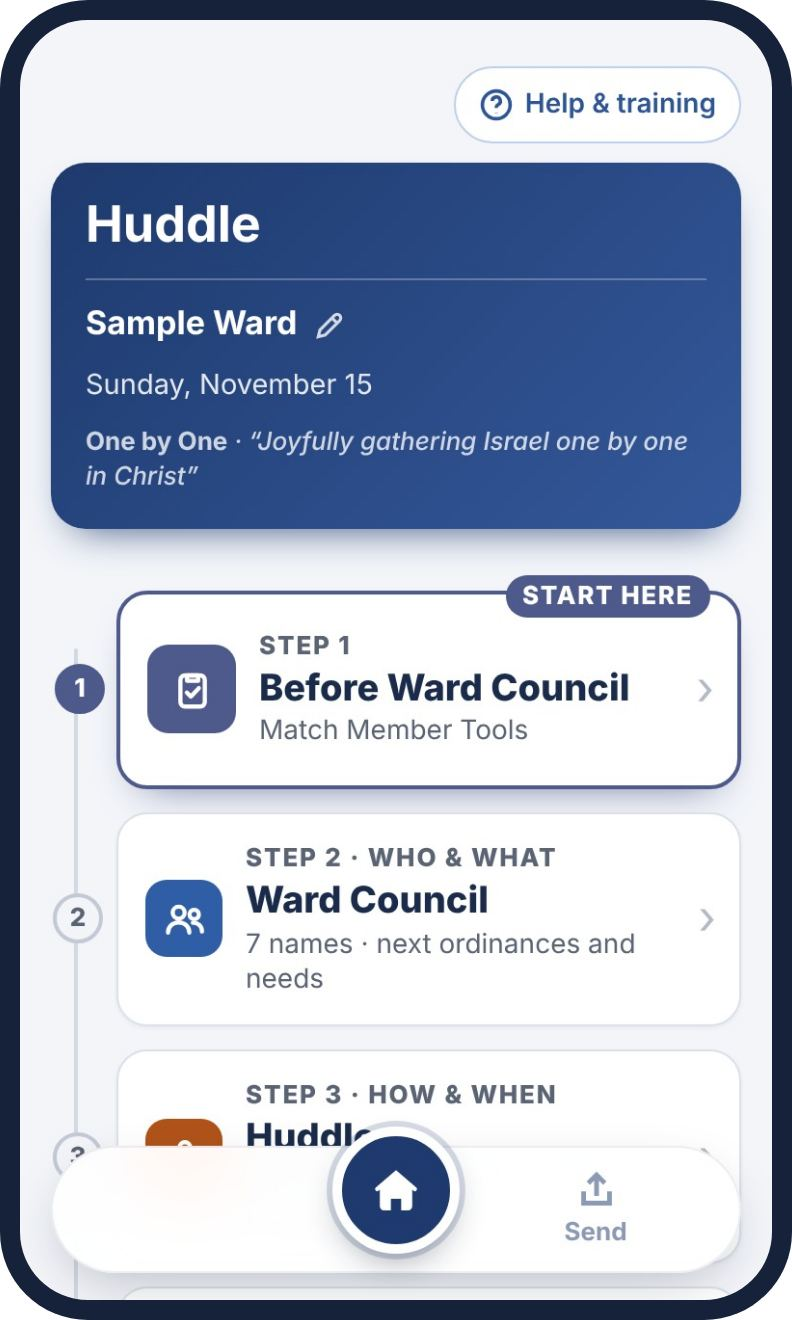
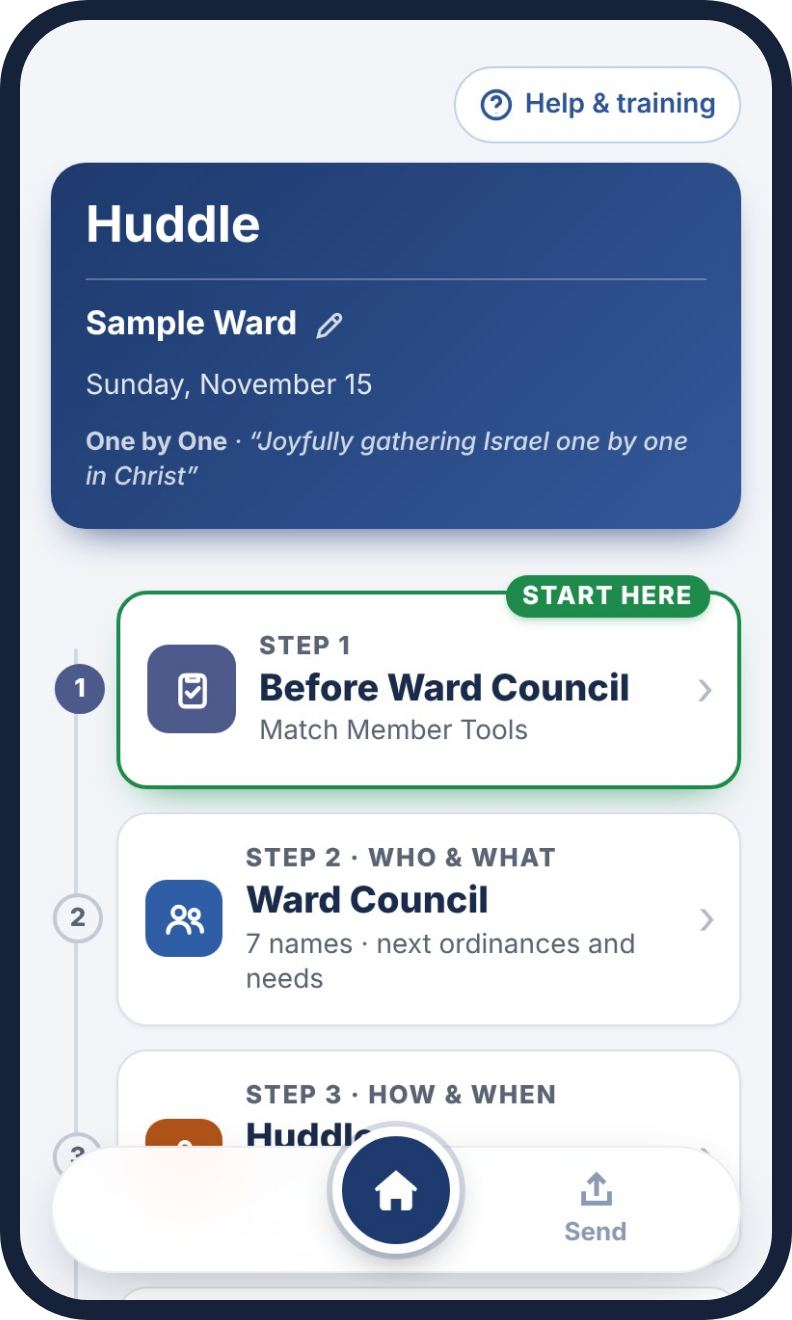
No next steps on focus names; assignment ideas stay to add more than one; Up next and Start here in green (wip, tests running)
Claude-Session: https://claude.ai/code/session_01PW98YcMvh8WynmxGN9Y5LD

Changed region(s): [[0.1515, 0.4348, 0.9394, 0.5902], [0.1515, 0.5902, 0.9091, 0.6212], [0.1212, 0.4659, 0.1515, 0.5902]]

diff --git a/app.js b/app.js
@@ -857,13 +857,14 @@
   function actionChips(base) {
     var a = getPath(base.replace(/\.$/, '')); if (!a || !str(a.name).trim()) return null;
     var m = /^cp\.(\w+)\./.exec(base), src = m ? { a: a, gid: m[1] } : cpOfName(a.name);
-    var open = src ? openChecks(src.a, src.gid).map(function (c) { return c.help; }) : [];
+    var open = []; // no "Next steps on their Covenant Path Report" here (Nov 20, 2026): only ideas for the next ordinance
     var ord = src && FIXED_ORD[src.gid] ? FIXED_ORD[src.gid] : str(a.ordinance).trim(), oi = ORD_IDEAS[ord];
     var done = src ? (CHECKLISTS[src.gid] || []).filter(function (c) { return checkOf(src.a, src.gid, c) !== false; }).map(function (c) { return c.help; }) : [];
     var ideas = oi ? oi.items.filter(function (t) { return open.indexOf(t) < 0 && done.indexOf(t) < 0; }) : []; // nothing they've already done
     if (!open.length && !ideas.length) return null;
-    var chipsFor = function (list) { return h('div', { class: 'idea-chips' }, list.map(function (t) { return h('button', { type: 'button', class: 'idea-chip', 'data-action': 'help-chip', 'data-a': base + 'action', 'data-b': t, text: t }); })); };
-    return h('div', { class: 'full help-chips action-chips', hidden: !!str(a.action).trim() }, [
+    var have = str(a.action).split('\n').map(function (x) { return x.trim(); });
+    var chipsFor = function (list) { return h('div', { class: 'idea-chips' }, list.map(function (t) { var on = have.indexOf(t) >= 0; return h('button', { type: 'button', class: 'idea-chip' + (on ? ' is-on' : ''), 'aria-pressed': on ? 'true' : 'false', 'data-action': 'help-chip', 'data-a': base + 'action', 'data-b': t, text: t }); })); };
+    return h('div', { class: 'full help-chips action-chips' }, [ // they stay after one is tapped, to add another (Nov 20, 2026)
       open.length ? h('p', { class: 'idea-k', text: 'Next steps on their Covenant Path Report' }) : null, open.length ? chipsFor(open) : null,
       ideas.length ? h('p', { class: 'idea-k', text: oi.label }) : null, ideas.length ? chipsFor(ideas) : null]);
   }
@@ -1015,7 +1016,7 @@
       isTn ? ordSuggest(base) : null // no confidential note here: nothing is typed (the user decided, Nov 19, 2026)
     ].filter(Boolean));
     return h('div', { class: 'card wc-card person-wc g-' + g }, [
-      focusBox(g, r.i, a), h('div', { class: 'card-zone wc-plain-zone' }, [wc, nextStepsBox(r, a)]),
+      focusBox(g, r.i, a), h('div', { class: 'card-zone wc-plain-zone' }, [wc, isTn ? null : nextStepsBox(r, a)]), // a focus name: no next steps list (Nov 20, 2026)
       g === 'bt' ? h('button', { type: 'button', class: 'btn-convert', 'data-action': 'convert-nm', 'data-a': r.i }, ['Move to New members']) : null
     ]);
   }
@@ -3162,8 +3163,13 @@
         break;
       }
       case 'help-chip': case 'ord-suggest': { // a tapped suggestion fills the Action item (or What will help); a suggested ordinance fills Next ordinance
-        setPath(a, b); saveDraft(); renderPerson(); renderTN(); renderCP();
-        if (/\.action$/.test(a)) { var tb = a.replace(/action$/, ''); refreshTextButton(tb); setTimeout(function () { var af = document.querySelector('#person-card [data-bind="' + tb + 'assigned"]'); if (af) af.focus(); }, 60); }
+        if (/\.action$/.test(a)) { // the Assignment can hold more than one: each tapped idea is a line of its own; tapping it again takes it out
+          var lines = str(getPath(a)).split('\n').filter(function (x) { return x.trim(); }), at = lines.map(function (x) { return x.trim(); }).indexOf(b);
+          if (at >= 0) lines.splice(at, 1); else lines.push(b);
+          setPath(a, lines.join('\n'));
+        } else setPath(a, b);
+        saveDraft(); renderPerson(); renderTN(); renderCP();
+        if (/\.action$/.test(a)) refreshTextButton(a.replace(/action$/, '')); // the ideas stay in view to add another (no jump to Assigned to)
         break;
       }
       case 'open-asg': case 'add-asg': { // from an opportunity's card in the Huddle: open it with that one assignment open

diff --git a/test/checklist.js b/test/checklist.js
@@ -69,18 +69,23 @@ const ok = (c, m) => { if (c) { passed++; console.log('PASS ' + m); } else { fai
   await p.selectOption('#person-card [data-bind="tn.1.ordinance"]', 'Endowment'); await w(400);
   await p.click('#person-view .person-done'); await w(300);
 
-  // The Huddle: no sacrament box; the action item offers what's still open on her report, then ideas for her next ordinance
+  // The Huddle: no sacrament box; the Assignment offers ideas for her next ordinance, and can hold more than one
   await p.click('.nav-home'); await w(400); await p.click('.door-hd'); await w(400);
   await p.click('[data-action="open-step"][data-a="tn"]'); await w(400);
   await p.click('#tn-list [data-action="open-person"][data-b="0"]'); await w(400);
   ok(!(await p.$('#person-card .sac-toggle')), 'a focus name in the Huddle has no Attended sacrament box');
   const ach = await p.$$eval('#person-card .action-chips .idea-chip', e => e.map(x => x.textContent));
   const atext = await p.textContent('#person-card .action-chips');
-  ok(/Next steps on their Covenant Path Report/.test(atext) && /Ideas for priesthood advancement/.test(atext) && ach.includes('Melchizedek Priesthood ordination') && !ach.includes('A calling') && !ach.includes('Friends at church') && !ach.includes('Aaronic Priesthood ordination'),
-    'under Assignment: only her next steps on her report, then ideas for her next ordinance: ' + ach.join(' | '));
-  await p.click('#person-card .action-chips .idea-chip >> text=Melchizedek Priesthood ordination'); await w(400);
+  ok(!/Next steps on their Covenant Path Report/.test(atext) && /Ideas for priesthood advancement/.test(atext) && ach.length >= 2 && !ach.includes('A calling') && !ach.includes('Friends at church'),
+    'under Assignment: ideas for her next ordinance only (no next steps list), leaving out what she has done: ' + ach.join(' | '));
+  const first = ach[0], second = ach[1];
+  await p.click(`#person-card .action-chips .idea-chip >> text="${first}"`); await w(400);
   st = await saved();
-  ok(st.tn[0].action === 'Melchizedek Priesthood ordination' && !(await p.isVisible('#person-card .action-chips')) && await p.evaluate(() => /assigned$/.test(document.activeElement.dataset.bind || '')), 'tapping one fills the Action item, the chips hide, and the cursor moves to Assigned to');
+  ok(st.tn[0].action === first && await p.isVisible('#person-card .action-chips') && await p.locator('#person-card .action-chips .idea-chip.is-on').count() === 1, 'tapping one fills the Assignment, and the ideas stay with that one checked');
+  await p.click(`#person-card .action-chips .idea-chip >> text="${second}"`); await w(400);
+  ok((await saved()).tn[0].action === first + '\n' + second && await p.locator('#person-card .action-chips .idea-chip.is-on').count() === 2, 'tapping another adds it on a line of its own: ' + second);
+  await p.click(`#person-card .action-chips .idea-chip >> text="${second}"`); await w(400);
+  ok((await saved()).tn[0].action === first, 'tapping it again takes it back out');
   await p.fill('#person-card [data-bind="tn.0.action"]', 'Meet with the elders quorum president'); await p.evaluate(() => document.activeElement.blur()); await w(200);
   await p.click('#person-view .person-done'); await w(300);
   await p.click('#tn-list [data-action="open-person"][data-b="1"]'); await w(400);

diff --git a/test/wccards.js b/test/wccards.js
@@ -62,12 +62,7 @@ const ok = (c, m) => { if (c) { passed++; console.log('PASS ' + m); } else { fai
   ok(!(await p.isVisible('.swipe-hint')), 'Got it puts the hint away');
   await p.click('#wc-step-tn .person-row:has-text("Marcus Bell")'); await w(500);
   ok(await view() === 'p-wc' && !(await p.$('#person-card .need-note')) && !(await p.$('#person-card .zone-label')) && !(await p.$('#person-card .wc-summary, #person-card .zone-hd-wrap, #person-card .hd-summary')), 'a focus name’s Ward Council screen has no zone label, no Huddle box and no confidential note');
-  ok(/next steps? on their Covenant Path Report/.test(await p.textContent('#person-card .ns-head')) && await p.locator('#person-card .ns-list').count() === 0, 'their next steps on the Covenant Path Report sit in a closed list');
-  await p.click('#person-card [data-action="ns-toggle"]'); await w(200);
-  const before = (await p.textContent('#person-card .ns-head')).match(/\d+/)[0];
-  await p.click('#person-card .ns-list [data-action="check-item"][data-b="calling"]'); await w(250);
-  const st1 = await p.evaluate(() => JSON.parse(localStorage.getItem('huddle-agenda-v1')));
-  ok(+((await p.textContent('#person-card .ns-head')).match(/\d+/)[0]) === before - 1 && st1.cp.rm[0].checks && st1.cp.rm[0].checks.calling === true && await p.isVisible('#person-card .ns-list [data-b="calling"]'), 'checking one off marks it done on their Covenant Path Report, and it stays in view');
+  ok(await p.locator('#person-card .ns-box, #person-card .ns-none').count() === 0, 'a focus name’s screen has no next steps list (just the next ordinance)');
   const opts = await p.$$eval('#person-card [data-bind$=".ordinance"] option', o => o.map(x => x.value).filter(Boolean));
   await p.selectOption('#person-card [data-bind$=".ordinance"]', opts[0]); await w(200);
   await p.click('#person-card .person-done'); await w(500);

diff --git a/styles.css b/styles.css
@@ -1798,3 +1798,10 @@ li.flag-focus .row-flag { color: #8A5A00; }
 .cal-day.is-today { box-shadow: inset 0 0 0 1.5px var(--accent-line); }
 .cal-day.is-sel { background: var(--accent); color: #FFFFFF; font-weight: 700; box-shadow: none; }
 .cal-picked { margin: 2px 0 0; text-align: center; font-size: 14px; font-weight: 600; color: var(--muted); }
+
+/* Up next and Start here in green, so they stand out (the user asked, Nov 20, 2026) */
+.tl-step.tl-next .up-next, .wc-up-next, .row-next, .details-summary.is-next::after { background: #1E8A4C; color: #FFFFFF; box-shadow: 0 2px 6px -2px rgba(30, 138, 76, .55); }
+.idea-chip.is-on { border-color: var(--green-line); background: var(--green-soft); color: var(--green-ink); font-weight: 700; }
+.action-chips .idea-chip::before { content: '+ '; font-weight: 700; color: var(--accent); }
+.action-chips .idea-chip.is-on::before { content: '✓ '; color: var(--green-ink); }
+.tl-step.tl-next, .wc-step.is-next, .details-summary.is-next { border-color: #1E8A4C; box-shadow: 0 10px 22px -14px #1E8A4C; }

diff --git a/index.html b/index.html
@@ -659,7 +659,7 @@
           <li><strong>Return and Report:</strong> mark each assignment <strong>Yes</strong>, <strong>Partly</strong> or <strong>No</strong>; tap <strong>Carry forward to this huddle</strong> to keep an unfinished one.</li>
           <li><strong>Sacrament attendance:</strong> tap each person who came.</li>
           <li><strong>Opportunities to invite:</strong> under an event, tap <strong>Add an assignment</strong>, then a way to invite.</li>
-          <li><strong>Focus names:</strong> tap a name. Tap a suggestion or type the assignment, add who and when, then tap <strong>Text this assignment</strong>.</li>
+          <li><strong>Focus names:</strong> tap a name. Tap one or more ideas or type the assignment, add who and when, then tap <strong>Text this assignment</strong>.</li>
         </ul>
       </details></li>
       <li><details class="help-item">

diff --git a/dark.css b/dark.css
@@ -308,6 +308,8 @@
 :where(:root.theme-dark) li.flag-focus .row-flag { color: #F1D49D; }
 :where(:root.theme-dark) .exp-none { color: #B0DEC1; }
 :where(:root.theme-dark) .cal-day.is-sel { color: #FFFFFF; }
+:where(:root.theme-dark) .tl-step.tl-next .up-next, :where(:root.theme-dark) .wc-up-next, :where(:root.theme-dark) .row-next, :where(:root.theme-dark) .details-summary.is-next::after { background: #1E8A4C; color: #FFFFFF; box-shadow: 0 2px 6px -2px rgba(30, 138, 76, .55); }
+:where(:root.theme-dark) .tl-step.tl-next, :where(:root.theme-dark) .wc-step.is-next, :where(:root.theme-dark) .details-summary.is-next { border-color: #1E8A4C; box-shadow: 0 10px 22px -14px #1E8A4C; }
 /* hand-tuned */
 :where(:root.theme-dark) .focus-box.is-pressing { background: #3A1D1D; border-color: #6E2C2C; }
 :where(:root.theme-dark) .focus-why { color: #FF9C9C; }

diff --git a/sw.js b/sw.js
@@ -1,5 +1,5 @@
 /* Offline support: caches the page's own files only. It never stores form data. */
-var CACHE = 'huddle-v260';
+var CACHE = 'huddle-v261';
 var FILES = [
   './',
   'index.html',

diff --git a/docs/SPEC.md b/docs/SPEC.md
@@ -975,3 +975,14 @@ handoff link without it loads with no referrals (referrals are no longer shown, 
   **Clear** and **Cancel**. Nothing is saved until Apply; Clear empties the date; Cancel and tapping outside leave it.
   (The phone's own date picker filled in today's date just from opening it.) `test/bapdate.js` covers it.
 - The other date boxes (When, Event date, Next appointment) still use the phone's picker.
+
+## Focus names: ideas, more than one assignment, green Up next (Nov 20, 2026)
+
+- A focus name's screens no longer list their next steps on the Covenant Path Report: not in the Huddle under
+  Assignment, and not on Ward Council's screen for a focus name. (A Covenant Path name in Ask ward council still opens
+  its open steps.)
+- Under Assignment, the ideas for their next ordinance stay in view after one is tapped. Each tapped idea goes on a line of
+  its own, so an Assignment can hold more than one; a tapped idea shows a check, and tapping it again takes it back out.
+  Tapping an idea no longer jumps to Assigned to.
+- Up next and Start here are green (#1E8A4C): the badge and the card's border, on the opening screen, Ward Council and the
+  Huddle.
